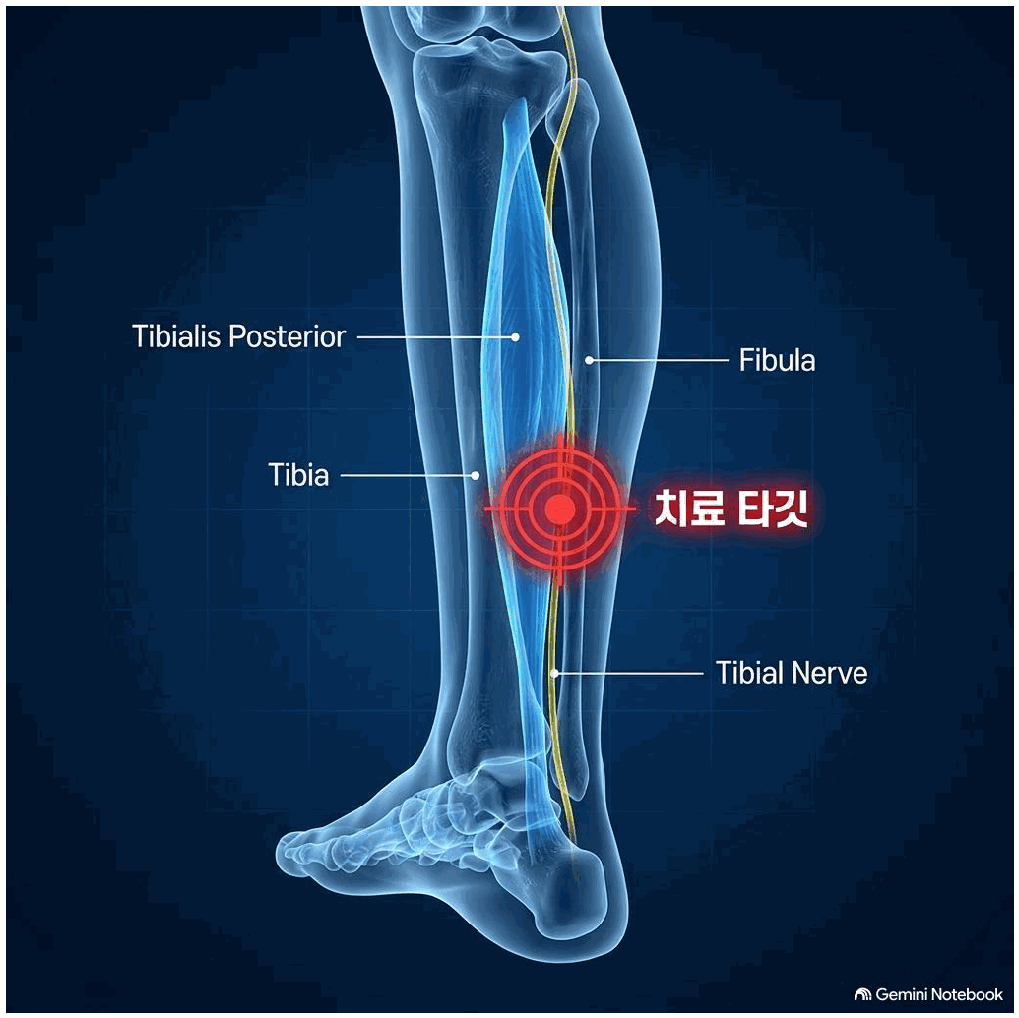
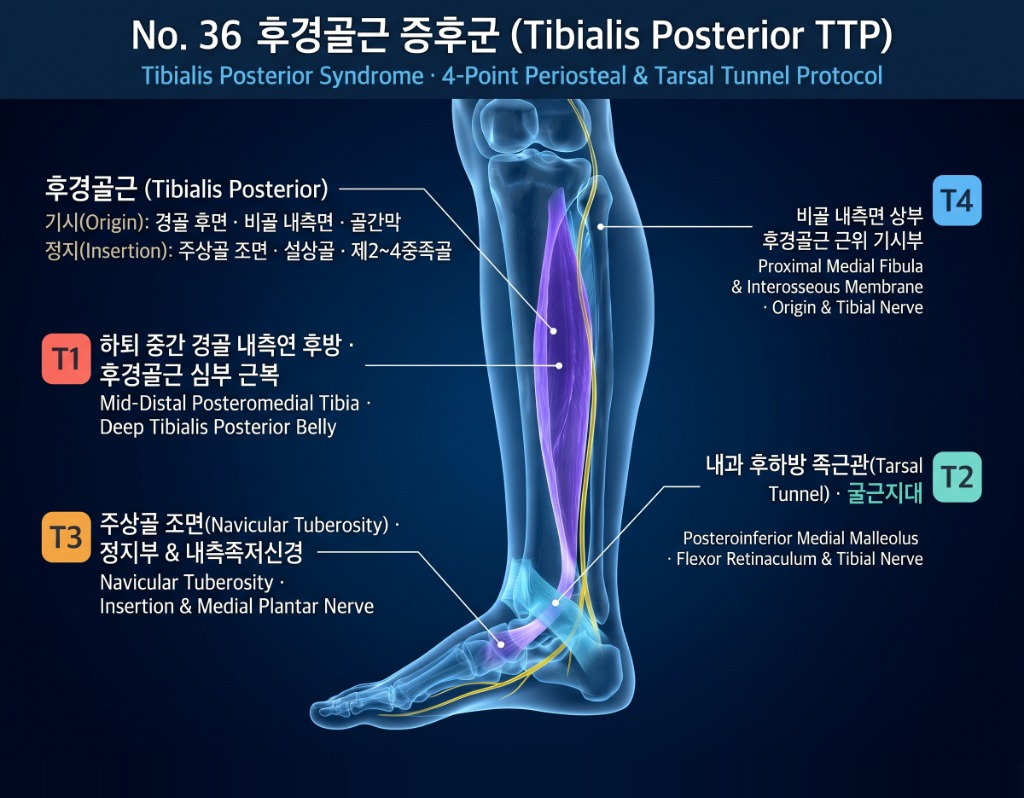
feat(healing-app): upgrade No.36 tibialis posterior syndrome plate and align T1-T4 pins

diff --git a/healing-app/js/pain_data.js b/healing-app/js/pain_data.js
@@ -4553,7 +4553,7 @@ window.PAIN_CONDITIONS = [
     ],
     "title": {
       "ko": "후경골근 증후군 (Tibialis Posterior TTP)",
-      "en": "Tibialis Posterior Syndrome (Tibialis Posterior TTP)"
+      "en": "Tibialis Posterior Syndrome (4-Point Periosteal & Tarsal Tunnel Protocol)"
     },
     "symptoms": {
       "ko": "발목 내측 및 내측 복사뼈 뒤쪽 통증, 평발 변화, 아침에 내측 족저궁 시림.",
@@ -4564,12 +4564,12 @@ window.PAIN_CONDITIONS = [
       "en": "Micro-damage and isotonic contraction of tibialis posterior induces periostitis (TTP) at navicular insertion."
     },
     "targetTissues": {
-      "ko": "후경골근(Tibialis Posterior) 근복.",
-      "en": "Tibialis posterior muscle belly."
+      "ko": "후경골근(Tibialis Posterior · 기시: 경골 후면·비골 내측면·골간막 / 정지: 주상골 조면·설상골·제2~4중족골), 내과 후하방 족근관(굴근지대)·경골신경, 주상골 조면 정지부 & 내측족저신경.",
+      "en": "Tibialis Posterior (origin: posterior tibia, medial fibula, interosseous membrane; insertion: navicular tuberosity, cuneiforms, 2nd-4th metatarsals), tarsal tunnel / flexor retinaculum & tibial nerve, navicular tuberosity & medial plantar nerve."
     },
     "palpation": {
-      "ko": "아랫다리 중간 높이 경골 내측연 뒤쪽으로 경골 후면에 붙 여 후경골근 근복 촉진.",
-      "en": "Tibialis posterior belly along posterior medial border of tibia at mid-calf level."
+      "ko": "① 하퇴 중간 경골 내측연 후방 후경골근 심부 근복 ② 내과 후하방 족근관·굴근지대 ③ 주상골 조면 정지부 & 내측족저신경 ④ 비골 내측면 상부 후경골근 근위 기시부.",
+      "en": "Mid-distal posteromedial tibia deep tibialis posterior belly, posteroinferior medial malleolus tarsal tunnel, navicular tuberosity insertion, and proximal medial fibula origin."
     },
     "clinicalCase": {
       "ko": "발목 내측 복사뼈 뒤쪽 통증과 아침 첫 보행 시 발바닥 내측 당김을 호소하던 후경골근 증후군 사례. 종아리 심부 후경골근 근복 및 내과 후방 신경 홈에 NovaCell Therapy를 적용하여 족궁(아치)의 건 견인력을 이완시키고 보행 편안함 회복.",
@@ -4580,73 +4580,73 @@ window.PAIN_CONDITIONS = [
       {
         "code": "T1",
         "color": "#ff334b",
-        "x": 55.5,
-        "y": 49.6,
+        "x": 54.6,
+        "y": 45.7,
         "role": {
-          "ko": "제1 핵심 치료점",
-          "en": "Primary Clinical Target"
+          "ko": "심부 근복·근막점",
+          "en": "Deep Muscle Belly Target"
         },
         "name": {
-          "ko": "T1: 하퇴 중간 경골 내측연 후방 후경골근(Tibialis Posterior) 심부 근복점",
-          "en": "T1: Mid-Medial Tibial Border Deep Tibialis Posterior Belly"
+          "ko": "T1: 하퇴 중간 경골 내측연 후방 · 후경골근 심부 근복",
+          "en": "T1: Mid-Distal Posteromedial Tibia · Deep Tibialis Posterior Belly"
         },
         "desc": {
-          "ko": "[표적 해부] 종아리 안쪽 중간~하부 1/3 높이, 경골 내측연 바로 뒤쪽 골간막에 밀착된 후경골근 심부 근복.\n[촉지 및 시술] 정강이뼈 안쪽 모서리 바로 뒤로 손가락을 밀어 넣어 경골 후면을 누를 때 나타나는 압통점. 아킬레스건·발바닥 통증 및 편평족의 근원 엔진입니다.",
-          "en": "Deep tibialis posterior belly along posterior surface of medial tibial border at mid-leg."
+          "ko": "[표적 해부] 하퇴 중간~원위부 경골 내측연 바로 뒤쪽 심부에 위치한 후경골근(Tibialis Posterior) 근복 및 경골 후면 골막 부착선.\n[촉지 및 시술] 정강이 안쪽 뼈(경골 내측연) 바로 뒤쪽 틈새로 심부 접근. 장시간 보행·달리기 시 정강이 안쪽 뻐근함(신스플린트)과 발바닥 아치 피로통을 해소합니다.",
+          "en": "Deep tibialis posterior belly right behind the mid-distal posteromedial tibial border; relieves medial tibial stress pain and deep calf tightness."
         }
       },
       {
         "code": "T2",
         "color": "#00f5d4",
-        "x": 67.0,
-        "y": 63.0,
+        "x": 54.3,
+        "y": 75.3,
         "role": {
-          "ko": "힘줄·골막 부착점",
-          "en": "Tendon & Periosteal Target"
+          "ko": "주 신경포착점",
+          "en": "Tarsal Tunnel Entrapment"
         },
         "name": {
-          "ko": "T2: 내과 후하방 족근관(Tarsal Tunnel) 굴근지대 후경골신경·후경골근건 타깃",
-          "en": "T2: Posteroinferior Medial Malleolus Tarsal Tunnel (Posterior Tibial Nerve)"
+          "ko": "T2: 내과 후하방 족근관(Tarsal Tunnel) · 굴근지대 & 경골신경",
+          "en": "T2: Posteroinferior Medial Malleolus · Flexor Retinaculum & Tibial Nerve"
         },
         "desc": {
-          "ko": "[표적 해부] 안쪽 복사뼈(내과)와 뒤꿈치(종골) 사이 굴근지대 아래 족근관.\n[촉지 및 시술] 내과 뒤쪽 태계~수천혈 구간(HP-TTS-01). 발바닥 전체가 화끈거리거나 저린 발목터널 증후군과 후경골근 건초염을 동시 감압합니다.",
-          "en": "Tarsal tunnel beneath flexor retinaculum posteroinferior to medial malleolus."
+          "ko": "[표적 해부] 발목 안쪽 복숭아뼈(내과) 후하방 굴근지대(Flexor Retinaculum) 아래로 후경골근건과 후경골신경(Tibial Nerve)이 통과하는 족근관 터널.\n[촉지 및 시술] 내과 뒤아래 오목한 족근관 입구. 발목 내측 저림, 발바닥 화끈거림 및 후경골건 활막염을 동시에 감압합니다.",
+          "en": "Tarsal tunnel beneath the flexor retinaculum posteroinferior to the medial malleolus; decompresses both the posterior tibial tendon and tibial nerve."
         }
       },
       {
         "code": "T3",
         "color": "#ff9f43",
-        "x": 38.0,
-        "y": 62.0,
+        "x": 48.9,
+        "y": 80.6,
         "role": {
           "ko": "힘줄·골막 부착점",
-          "en": "Tendon & Periosteal Target"
+          "en": "Tendon Insertion & Nerve Target"
         },
         "name": {
-          "ko": "T3: 주상골 조면(Navicular Tuberosity) 후경골근 정지부 골막 부착부 및 내측족저신경점",
-          "en": "T3: Navicular Tuberosity Tibialis Posterior Insertion & Medial Plantar Tunnel"
+          "ko": "T3: 주상골 조면(Navicular Tuberosity) · 정지부 & 내측족저신경",
+          "en": "T3: Navicular Tuberosity · Insertion & Medial Plantar Nerve"
         },
         "desc": {
-          "ko": "[표적 해부] 발 안쪽 아치 정점의 주상골 조면 후경골근 주 정지건 골막 및 모지외전근 하방 내측·외측 족저신경 분기점(HP-TTS-02).\n[촉지 및 시술] 발 안쪽 볼록한 주상골 뼈 밑면 골막 접촉. 무너진 내측 아치를 지지하고 족저 신경통을 차단합니다.",
-          "en": "Navicular tuberosity periosteal insertion of tibialis posterior and abductor hallucis plantar nerve tunnel."
+          "ko": "[표적 해부] 발 안쪽 아치 정점의 주상골 조면(Navicular Tuberosity) 후경골근 주 정지부 건골막 및 인접 내측족저신경(Medial Plantar Nerve) 주행로.\n[촉지 및 시술] 내과 전하방 약 2.5~3cm 만져지는 볼록한 주상골 뼈 밑면 경계. 무너진 내측 아치(평발성 통증)와 디딜 때 발 안쪽 찌릿함을 직접 해결합니다.",
+          "en": "Primary tibialis posterior insertion at the navicular tuberosity adjacent to the medial plantar nerve; restores medial arch support and resolves medial midfoot pain."
         }
       },
       {
         "code": "T4",
         "color": "#38bdf8",
-        "x": 62.0,
-        "y": 38.0,
+        "x": 58.6,
+        "y": 28.4,
         "role": {
-          "ko": "힘줄·골막 부착점",
-          "en": "Tendon & Periosteal Target"
+          "ko": "기시부·근위 제어점",
+          "en": "Proximal Origin & Tibial Nerve Target"
         },
         "name": {
-          "ko": "T4: 비골 내측면 상부 후경골근 근위 기시부(삼음교 상방) 연계점",
-          "en": "T4: Proximal Posterior Tibialis & Interosseous Membrane Point"
+          "ko": "T4: 비골 내측면 상부 후경골근 근위 기시부 & 골간막",
+          "en": "T4: Proximal Medial Fibula & Interosseous Membrane · Origin & Tibial Nerve"
         },
         "desc": {
-          "ko": "[표적 해부] 하퇴 상부 1/3 골간막 후경골근 기시부 및 경골신경 본간.\n[촉지 및 시술] 후경골근 전체 근막 장력을 상·하부에서 완전히 이완합니다.",
-          "en": "Proximal origin of tibialis posterior on interosseous membrane."
+          "ko": "[표적 해부] 비골 근위부 내측면과 경·비골 사이 골간막(Interosseous Membrane)의 후경골근 최상부 기시부 및 근위 경골신경 분지.\n[촉지 및 시술] 종아리 상부 외후방 비골두 아래 심부 기시부. 후경골근 전체의 근위부 장력과 종아리 깊숙한 당김을 원천적으로 이완합니다.",
+          "en": "Proximal tibialis posterior origin along the upper medial fibula and interosseous membrane adjacent to the tibial nerve; releases full-length tendon tension."
         }
       }
     ],
